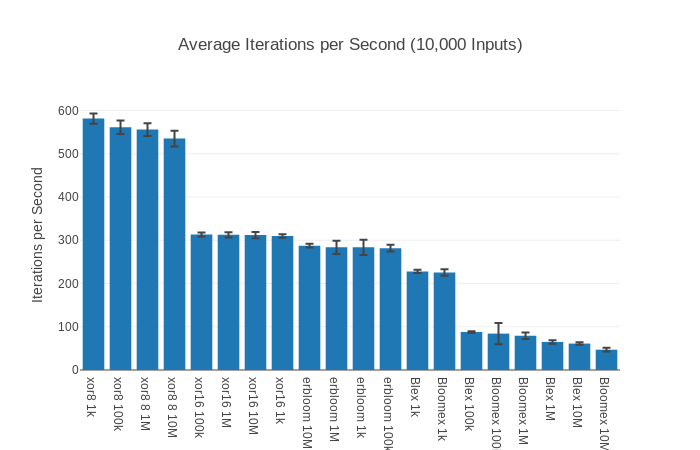
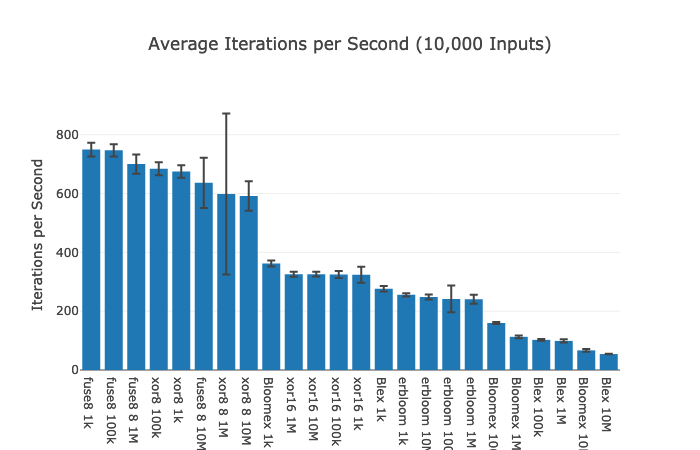
Adding fuse filter

Changed region(s): [[0.03, 0.2178, 0.9, 1.0], [0.21, 0.0622, 0.81, 0.1244]]

diff --git a/README.md b/README.md
@@ -2,12 +2,15 @@
 
 Benchmarking suite to compare the access performance of the [exor_filter](https://github.com/mpope9/exor_filter) library against common bloom filter libraries.
 
+Now featuring the new [efuse_filter](https://github.com/mpope9/efuse_filter), a new serious contender.
+
 The benchmark is simple, it create filters of 1k, 100k, 1M, and 10M elements.  Then it attempts 10k reads from each.
 
 Libraries compared against:
 * [Bloomex](https://github.com/gmcabrita/bloomex) - Pure Elixir implementation of Scalable Bloom Filters.
 * [Blex](https://github.com/gyson/blex) - Fast Bloom filter powered by erlang atomics.
 * [Erbloom](https://github.com/Vonmo/erbloom) - Safe and Fast Bloom Filter that uses a rust nif.
+  * To get erbloom to compile, you must modify the `cargo.toml` file to point to the latest `ruslter` version, or it will not compile.
 
 An attempt was made to use [ebloom](https://github.com/basho/ebloom) which also uses a C nif but could not get it to compile.
 
@@ -19,26 +22,74 @@ Warning: these results were ran from a laptop and not a production environment.
 ## Benchee Output
 
 ```
-exor_filter 8 1k Elements           603.77
-exor_filter 8 100k Elements         593.32 - 1.02x slower +0.0292 ms
-exor_filter 8 1M Elements           570.16 - 1.06x slower +0.0976 ms
-exor_filter 8 10M Elements          546.47 - 1.10x slower +0.174 ms
-exor_filter 16 100k Elements        325.90 - 1.85x slower +1.41 ms
-exor_filter 16 1M Elements          325.64 - 1.85x slower +1.41 ms
-exor_filter 16 10M Elements         325.16 - 1.86x slower +1.42 ms
-exor_filter 16 1k Elements          318.93 - 1.89x slower +1.48 ms
-erbloom 1k Elements                 294.96 - 2.05x slower +1.73 ms
-erbloom 10M Elements                294.57 - 2.05x slower +1.74 ms
-erbloom 100k Elements               292.23 - 2.07x slower +1.77 ms
-erbloom 1M Elements                 290.60 - 2.08x slower +1.78 ms
-Bloomex 1k Elements                 230.09 - 2.62x slower +2.69 ms
-Blex 1k Elements                    229.09 - 2.64x slower +2.71 ms
-Bloomex 100k Elements               100.53 - 6.01x slower +8.29 ms
-Blex 100k Elements                   88.10 - 6.85x slower +9.69 ms
-Bloomex 1M Elements                  83.31 - 7.25x slower +10.35 ms
-Blex 1M Elements                     67.21 - 8.98x slower +13.22 ms
-Blex 10M Elements                    65.95 - 9.16x slower +13.51 ms
-Bloomex 10M Elements                 47.63 - 12.68x slower +19.34 ms
+Operating System: macOS
+CPU Information: Intel(R) Core(TM) i5-7267U CPU @ 3.10GHz
+Number of Available Cores: 4
+Available memory: 8 GB
+Elixir 1.12.2
+Erlang 24.0.5
+
+Benchmark suite executing with the following configuration:
+warmup: 2 s
+time: 5 s
+memory time: 0 ns
+reduction time: 0 ns
+parallel: 1
+inputs: 10,000 Inputs
+Estimated total run time: 2.80 min
+
+##### With input 10,000 Inputs #####
+Name                   ips        average  deviation         median         99th %
+fuse8 1k            749.31        1.33 ms     ±3.17%        1.33 ms        1.49 ms
+fuse8 100k          746.83        1.34 ms     ±2.79%        1.33 ms        1.48 ms
+fuse8 8 1M          700.22        1.43 ms     ±4.68%        1.42 ms        1.74 ms
+xor8 100k           684.07        1.46 ms     ±3.21%        1.45 ms        1.66 ms
+xor8 1k             674.74        1.48 ms     ±3.15%        1.47 ms        1.63 ms
+fuse8 8 10M         636.23        1.57 ms    ±13.44%        1.52 ms        2.74 ms
+xor8 8 1M           598.47        1.67 ms    ±45.72%        1.54 ms        4.95 ms
+xor8 8 10M          591.64        1.69 ms     ±8.51%        1.64 ms        2.44 ms
+Bloomex 1k          362.02        2.76 ms     ±2.78%        2.75 ms        3.09 ms
+xor16 1M            325.59        3.07 ms     ±2.58%        3.06 ms        3.44 ms
+xor16 10M           325.58        3.07 ms     ±2.48%        3.05 ms        3.44 ms
+xor16 100k          324.61        3.08 ms     ±3.61%        3.06 ms        3.58 ms
+xor16 1k            324.05        3.09 ms     ±8.40%        3.06 ms        3.58 ms
+Blex 1k             276.08        3.62 ms     ±3.37%        3.61 ms        4.10 ms
+erbloom 1k          255.52        3.91 ms     ±2.24%        3.89 ms        4.37 ms
+erbloom 10M         248.20        4.03 ms     ±3.26%        4.00 ms        4.63 ms
+erbloom 100k        241.76        4.14 ms    ±18.76%        4.03 ms        6.71 ms
+erbloom 1M          240.54        4.16 ms     ±6.22%        4.10 ms        5.60 ms
+Bloomex 100k        159.83        6.26 ms     ±1.99%        6.23 ms        6.93 ms
+Bloomex 1M          112.84        8.86 ms     ±4.26%        8.77 ms       10.38 ms
+Blex 100k           102.44        9.76 ms     ±2.63%        9.71 ms       10.64 ms
+Blex 1M              98.90       10.11 ms     ±5.70%        9.96 ms       12.48 ms
+Bloomex 10M          66.75       14.98 ms     ±7.37%       14.79 ms       16.56 ms
+Blex 10M             54.21       18.45 ms     ±1.42%       18.43 ms       19.71 ms
+
+Comparison:
+fuse8 1k            749.31
+fuse8 100k          746.83 - 1.00x slower +0.00443 ms
+fuse8 8 1M          700.22 - 1.07x slower +0.0936 ms
+xor8 100k           684.07 - 1.10x slower +0.127 ms
+xor8 1k             674.74 - 1.11x slower +0.147 ms
+fuse8 8 10M         636.23 - 1.18x slower +0.24 ms
+xor8 8 1M           598.47 - 1.25x slower +0.34 ms
+xor8 8 10M          591.64 - 1.27x slower +0.36 ms
+Bloomex 1k          362.02 - 2.07x slower +1.43 ms
+xor16 1M            325.59 - 2.30x slower +1.74 ms
+xor16 10M           325.58 - 2.30x slower +1.74 ms
+xor16 100k          324.61 - 2.31x slower +1.75 ms
+xor16 1k            324.05 - 2.31x slower +1.75 ms
+Blex 1k             276.08 - 2.71x slower +2.29 ms
+erbloom 1k          255.52 - 2.93x slower +2.58 ms
+erbloom 10M         248.20 - 3.02x slower +2.69 ms
+erbloom 100k        241.76 - 3.10x slower +2.80 ms
+erbloom 1M          240.54 - 3.12x slower +2.82 ms
+Bloomex 100k        159.83 - 4.69x slower +4.92 ms
+Bloomex 1M          112.84 - 6.64x slower +7.53 ms
+Blex 100k           102.44 - 7.31x slower +8.43 ms
+Blex 1M              98.90 - 7.58x slower +8.78 ms
+Bloomex 10M          66.75 - 11.22x slower +13.65 ms
+Blex 10M             54.21 - 13.82x slower +17.11 ms
 ```
 
 ## Instructions
